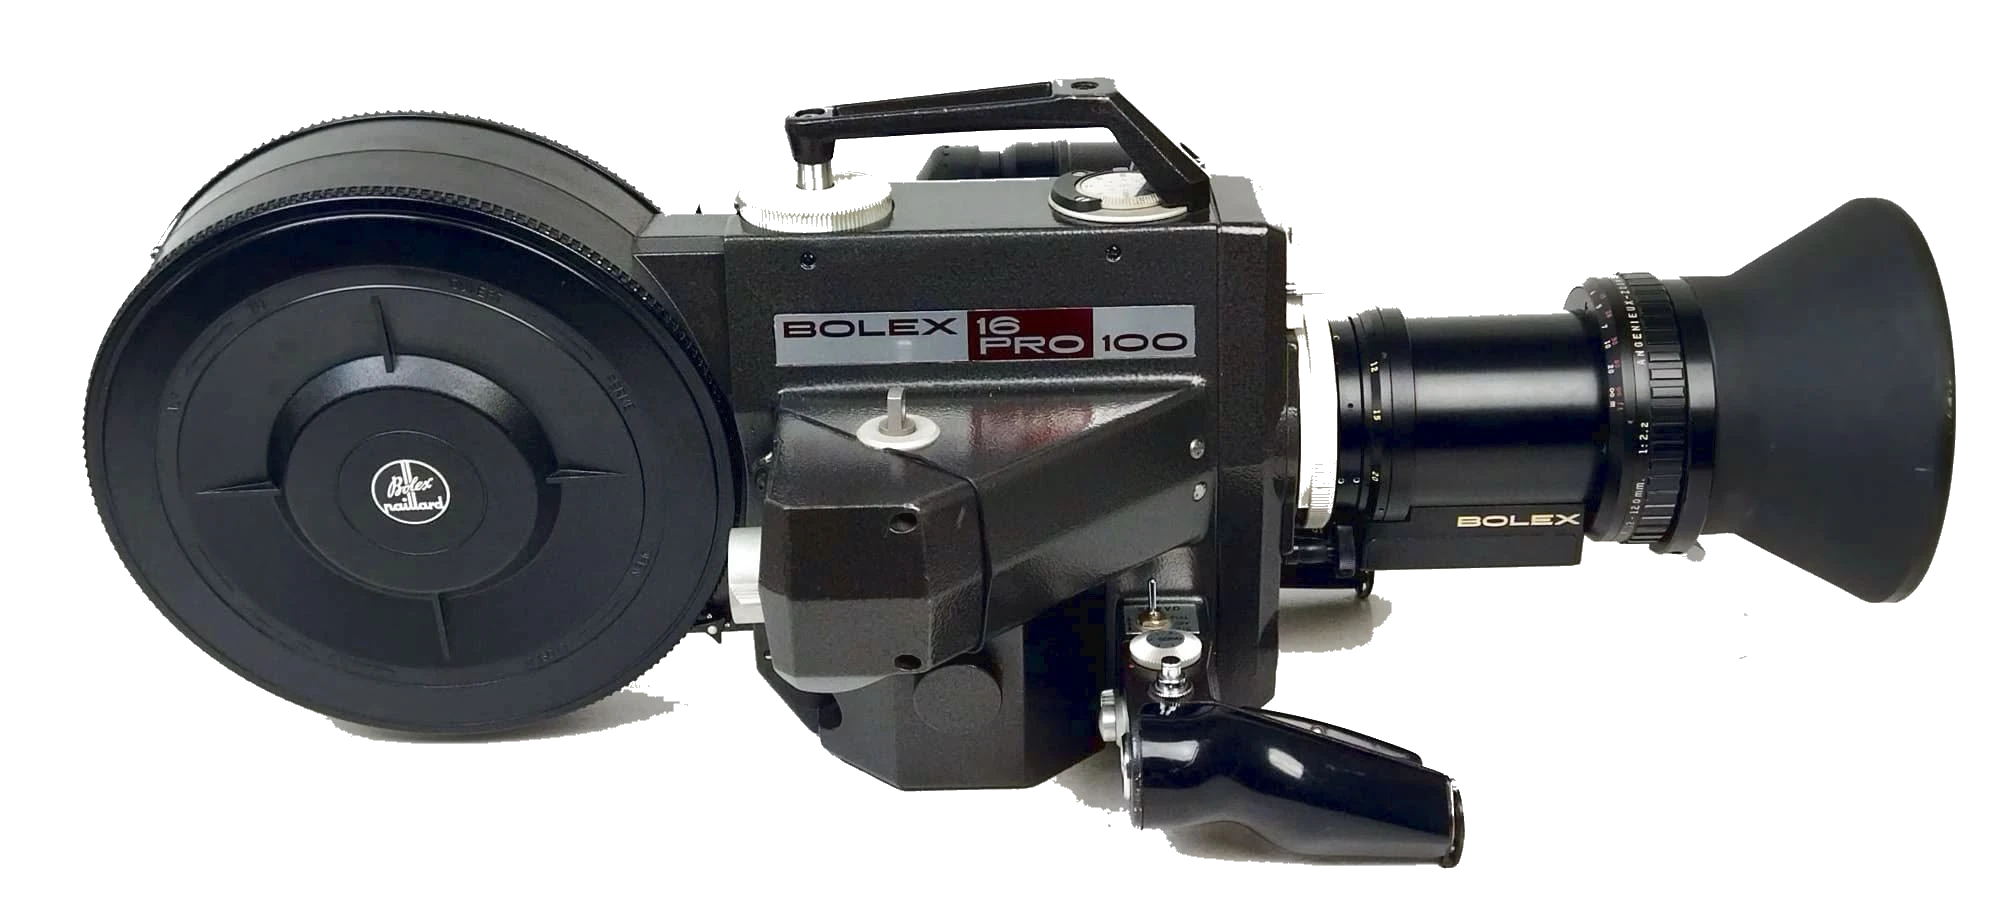
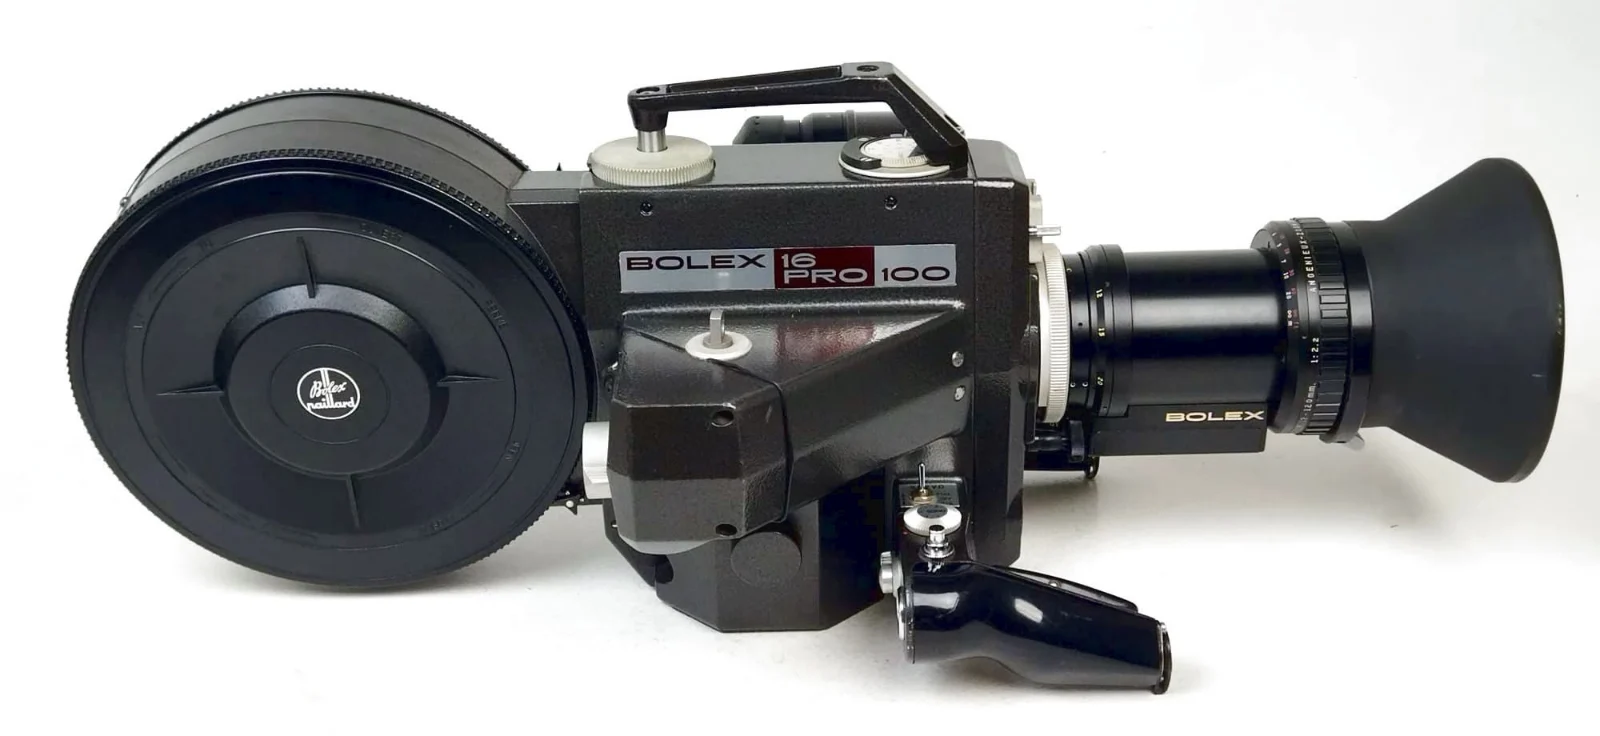
Use the photographs as shot, and give the archive strip its own colour
The cut-outs are gone. They looked right on the page and wrong enlarged —
against the near-black lightbox a dark camera with no background lost its
own edges — and the fix I reached for first was a light card behind them,
which is a workaround for a problem that did not need to exist. Keeping two
versions of every photograph to paper over it would have been worse.

So the five are served as plain WebP with the white they were shot on,
1600px, 445KB for all five against 676KB of JPEG. They now behave exactly
like the archive's photographs: the plate multiplies the white into the
paper, the subject reads as cut out on the page, and the lightbox shows the
photograph as taken. One file, one treatment.

The cut-out plumbing is removed rather than left dormant — the `cutout`
class, the Thumb prop, the lightbox card and the CSS rule. Unused machinery
with no caller is a trap for whoever reads this next.

The archive strip is now teal at 45px instead of paper at 57px. It is the
only thing between a reader and the preserved site, so it takes as little
height as it can while still crediting Michael and offering the way out.
The colour earns its place: it reads as this project's own furniture at a
glance, and stops the 1990s page below appearing to continue upward into
our header.

Claude-Session: https://claude.ai/code/session_013Ri5CAHKWGp7WWpWPdNptG

diff --git a/components/ImageGallery.tsx b/components/ImageGallery.tsx
@@ -102,11 +102,10 @@ export function ImageGallery({
                     <img
                       src={img.src}
                       alt={img.alt || caption}
-                      data-credit={img.credit || undefined}
                       /* The lead plate is usually the largest element painted,
                          so it is not deferred; the rest are. */
                       loading={isLead ? undefined : "lazy"}
-                      className={`h-full w-full object-contain transition-transform duration-500 no-touch-zoom group-hover:scale-[1.03] ${img.credit ? "cutout " : ""}${
+                      className={`h-full w-full object-contain transition-transform duration-500 no-touch-zoom group-hover:scale-[1.03] ${
                         isLead ? "lg:h-auto" : ""
                       }`}
                     />
@@ -143,9 +142,7 @@ export function ImageGallery({
                   src={img.src}
                   alt={img.alt || caption}
                   loading="lazy"
-                  className={`w-full h-auto object-contain transition-transform duration-500 group-hover:scale-[1.02] no-touch-zoom${
-                    img.credit ? " cutout" : ""
-                  }`}
+                  className="w-full h-auto object-contain transition-transform duration-500 group-hover:scale-[1.02] no-touch-zoom"
                 />
               </button>
               {img.alt && (
@@ -190,20 +187,7 @@ export function ImageGallery({
                     src={current.src}
                     alt={current.alt || caption}
                     draggable={false}
-                    /*
-                     * A cut-out gets a light card behind it full screen.
-                     *
-                     * Transparency is right in a page where the image sits
-                     * on paper, and wrong here: against the near-black
-                     * backdrop a dark camera with no background loses its
-                     * own edges and reads as a smudge. The archive's own
-                     * photographs do not have this problem because they
-                     * still carry the white they were shot on, so only the
-                     * cut-outs need the card.
-                     */
-                    className={`max-h-full max-w-full object-contain touch-pan-y select-none${
-                      current.credit ? " bg-[#f2efe6] p-3 sm:p-6 rounded-sm" : ""
-                    }`}
+                    className="max-h-full max-w-full object-contain touch-pan-y select-none"
                     onClick={(e) => e.stopPropagation()}
                   />
                 </div>

diff --git a/components/OriginalFrame.tsx b/components/OriginalFrame.tsx
@@ -19,16 +19,27 @@ export const ORIGINAL_ENTRY = "/original/index.html";
 export function OriginalFrame({ lazy = false }: { lazy?: boolean }) {
   return (
     <div className="fixed inset-0 z-50 flex flex-col bg-[var(--bg)]">
-      <div className="safe-top shrink-0 border-b border-[var(--line)] bg-[var(--bg-raised)]">
-        <div className="mx-auto flex max-w-6xl items-center justify-between gap-4 px-4 py-2">
-          <p className="min-w-0 font-[family-name:var(--font-mono)] text-[0.68rem] leading-snug text-[var(--fg-soft)]">
-            <span className="text-[var(--fg)]">BolexCollector.com as it was</span>
-            <span className="hidden sm:inline">
+      {/*
+       * The strip is the only thing standing between the reader and the
+       * preserved site, so it takes as little height as it can while still
+       * crediting Michael and offering the way out. Teal ground rather than
+       * paper: it reads as this project's own furniture at a glance, which
+       * is exactly what it is, and it stops the 1990s page below looking
+       * like it continues upward into our header.
+       */}
+      <div className="safe-top shrink-0 bg-[var(--color-accent)] text-[#f2efe6]">
+        <div className="mx-auto flex max-w-6xl items-center justify-between gap-3 px-4 py-1.5">
+          <p className="min-w-0 truncate font-[family-name:var(--font-mono)] text-[0.66rem] leading-tight">
+            <span className="font-medium">BolexCollector.com as it was</span>
+            <span className="hidden opacity-75 sm:inline">
               {" "}
               — the work of Michael Tisdale, kept online while the original is down
             </span>
           </p>
-          <ViewToggle to="modern" className="tap-target shrink-0 border border-[var(--fg)] px-3 font-[family-name:var(--font-mono)] text-[0.65rem] uppercase tracking-[0.12em] transition-colors duration-200 hover:bg-[var(--fg)] hover:text-[var(--bg)]">
+          <ViewToggle
+            to="modern"
+            className="shrink-0 border border-[#f2efe6]/50 px-3 py-1 font-[family-name:var(--font-mono)] text-[0.62rem] uppercase tracking-[0.12em] transition-colors duration-200 hover:bg-[#f2efe6] hover:text-[var(--color-accent)]"
+          >
             Modern site
           </ViewToggle>
         </div>

diff --git a/app/cameras/page.tsx b/app/cameras/page.tsx
@@ -83,10 +83,7 @@ export default function CamerasPage() {
                   href={`/cameras/${model.slug}`}
                   className="group flex h-full items-start gap-4 bg-[var(--bg)] p-5 hover:bg-[var(--bg-raised)] transition-colors duration-300"
                 >
-                  <Thumb
-                      src={thumbnailFor("cameras", model.slug, model.images)}
-                      cutout={Boolean(model.images[0]?.credit)}
-                    />
+                  <Thumb src={thumbnailFor("cameras", model.slug, model.images)} />
                   <div className="min-w-0 flex-1">
                     <div className="flex items-baseline justify-between gap-3">
                       <h3 className="font-[family-name:var(--font-display)] text-lg font-[560] group-hover:text-[var(--accent)] transition-colors duration-200">

diff --git a/components/Thumb.tsx b/components/Thumb.tsx
@@ -21,13 +21,10 @@ export function Thumb({
   src,
   className = "",
   size = "md",
-  cutout = false,
 }: {
   src?: string;
   className?: string;
   size?: "md" | "lg";
-  /** True when the image already has an alpha channel, so skip the multiply. */
-  cutout?: boolean;
 }) {
   const box = size === "lg" ? "h-20 w-20" : "h-14 w-14 sm:h-16 sm:w-16";
 
@@ -49,7 +46,7 @@ export function Thumb({
   return (
     <div className={`plate ${box} ${className} shrink-0 border border-[var(--line)] p-1`}>
       {/* eslint-disable-next-line @next/next/no-img-element */}
-      <img src={src} alt="" loading="lazy" decoding="async" className={`h-full w-full object-contain${cutout ? " cutout" : ""}`} />
+      <img src={src} alt="" loading="lazy" decoding="async" className="h-full w-full object-contain" />
     </div>
   );
 }

diff --git a/app/globals.css b/app/globals.css
@@ -191,17 +191,6 @@ html {
 }
 .plate img { mix-blend-mode: multiply; }
 
-/*
- * Images with a real alpha channel must not be multiplied.
- *
- * The plate exists because the archive's photographs were shot on white:
- * multiplying makes that white become the plate, so the subject reads as
- * cut out. A genuinely transparent image has no white to remove, and
- * multiplying it only muddies the subject against the panel. Sourced
- * photographs are cut out properly, so they opt out.
- */
-.plate img.cutout { mix-blend-mode: normal; }
-
 /* Document scans (period ads, catalogues) are artefacts, not products: their
    aged paper is part of the record, so they are framed rather than blended. */
 .document {

diff --git a/research/pending-media/16pro/PROVENANCE.md b/research/pending-media/16pro/PROVENANCE.md
@@ -24,24 +24,16 @@ Needed: who took them, or where they were found.
 The body plate reads `BOLEX 16 PRO 100` and the lens is an Angénieux
 12-120mm f/2.2. See ../../findings/bolex-16-pro.md.
 
-## Cut-outs
+## Published as plain WebP, not cut out
 
-`webp/` holds the same five images as transparent WebP, background removed.
+These JPEGs are the masters. What is served lives in
+`media/sourced/cameras/16pro/` — the same photographs at 1600px wide as
+WebP, white background intact, 445KB for all five against 676KB of JPEG.
 
-The removal is by connectivity, not colour: a flood fill runs inward from
-the border and only clears pixels it can reach through other background
-pixels. That matters because this camera has silver knobs, a white-and-red
-body plate and bright highlights — a plain "clear everything near white"
-would have punched holes straight through them. Anything enclosed by dark
-metal is unreachable and survives.
-
-The threshold also clears the soft drop shadow, which at a tighter setting
-stayed behind as a grey smear and looked wrong on a dark ground. It is safe
-by construction: the fill can only clear pixels brighter than 160, so the
-black body can never be touched.
-
-Note these are *genuinely* transparent, unlike the rest of the site's
-imagery — those are JPEGs on white that only look cut out, because `.plate`
-multiplies them against a warm panel. A real alpha channel needs no plate
-and works on any ground, so when these are published they should not get
-the multiply treatment.
+Cutting them out was tried and abandoned. The transparency looked right on
+the page and wrong enlarged: against the near-black lightbox a dark camera
+with no background lost its own edges. Keeping two versions of every
+photograph to work around that is worse than not cutting them out, and the
+archive's own photographs are all white-background originals that the plate
+multiplies into the paper. One file, one treatment, consistent with
+everything else on the site.
